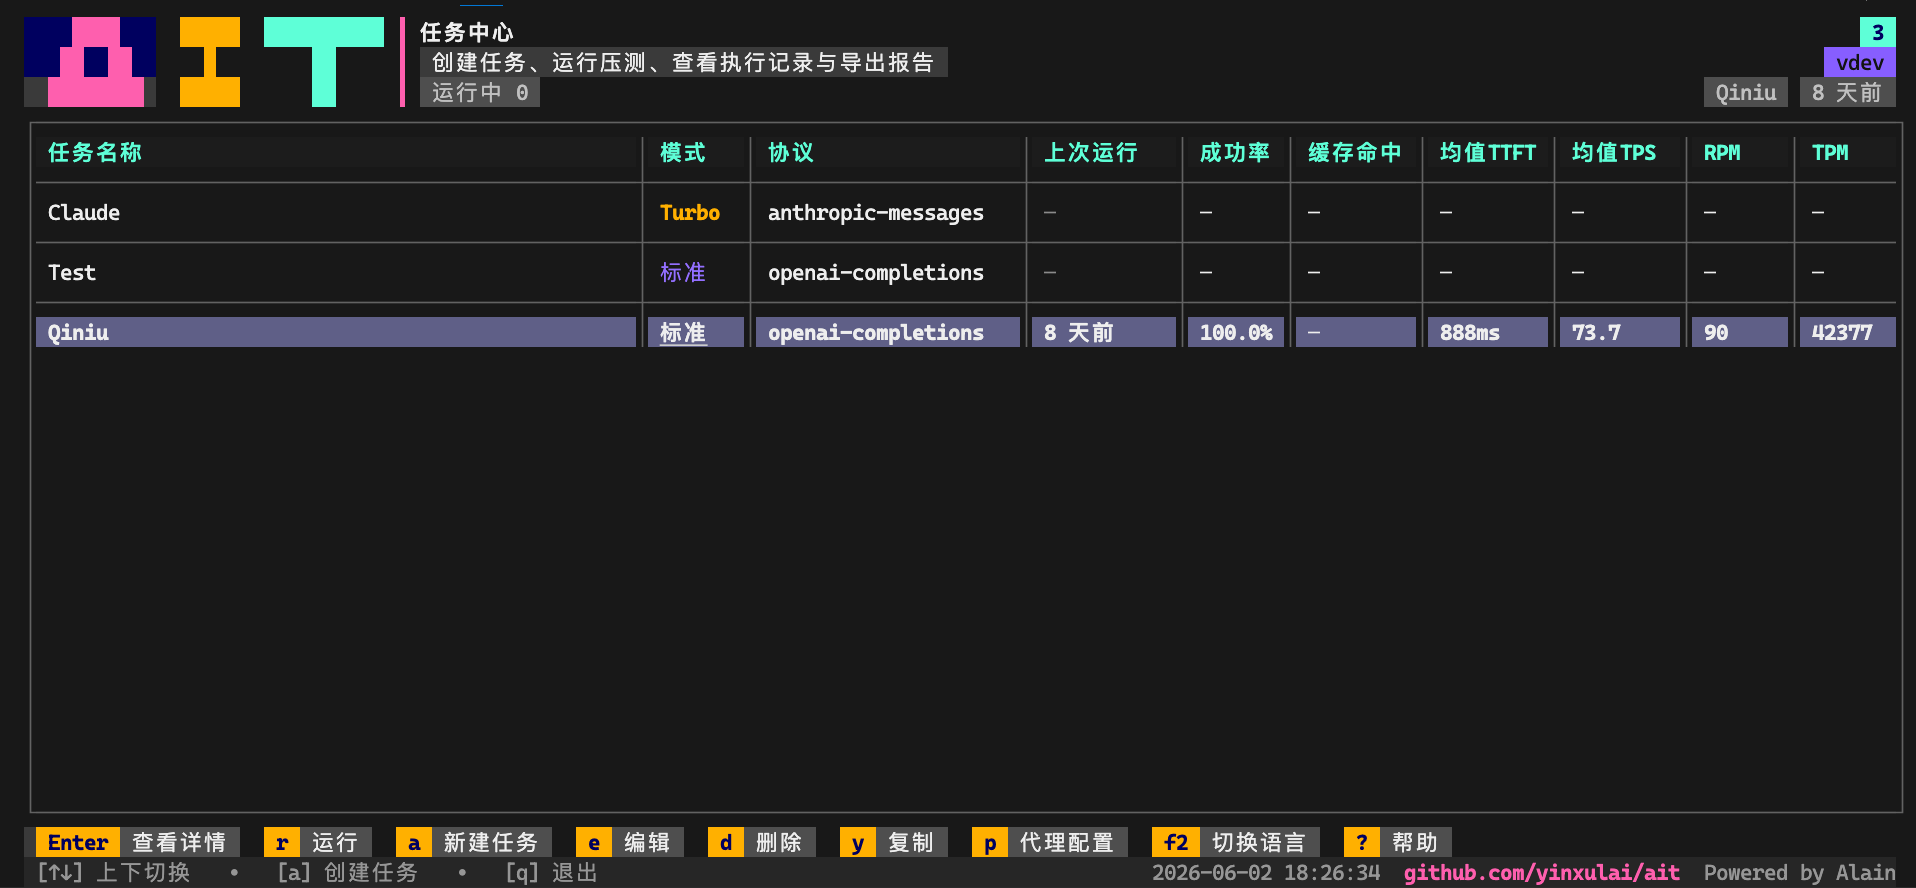
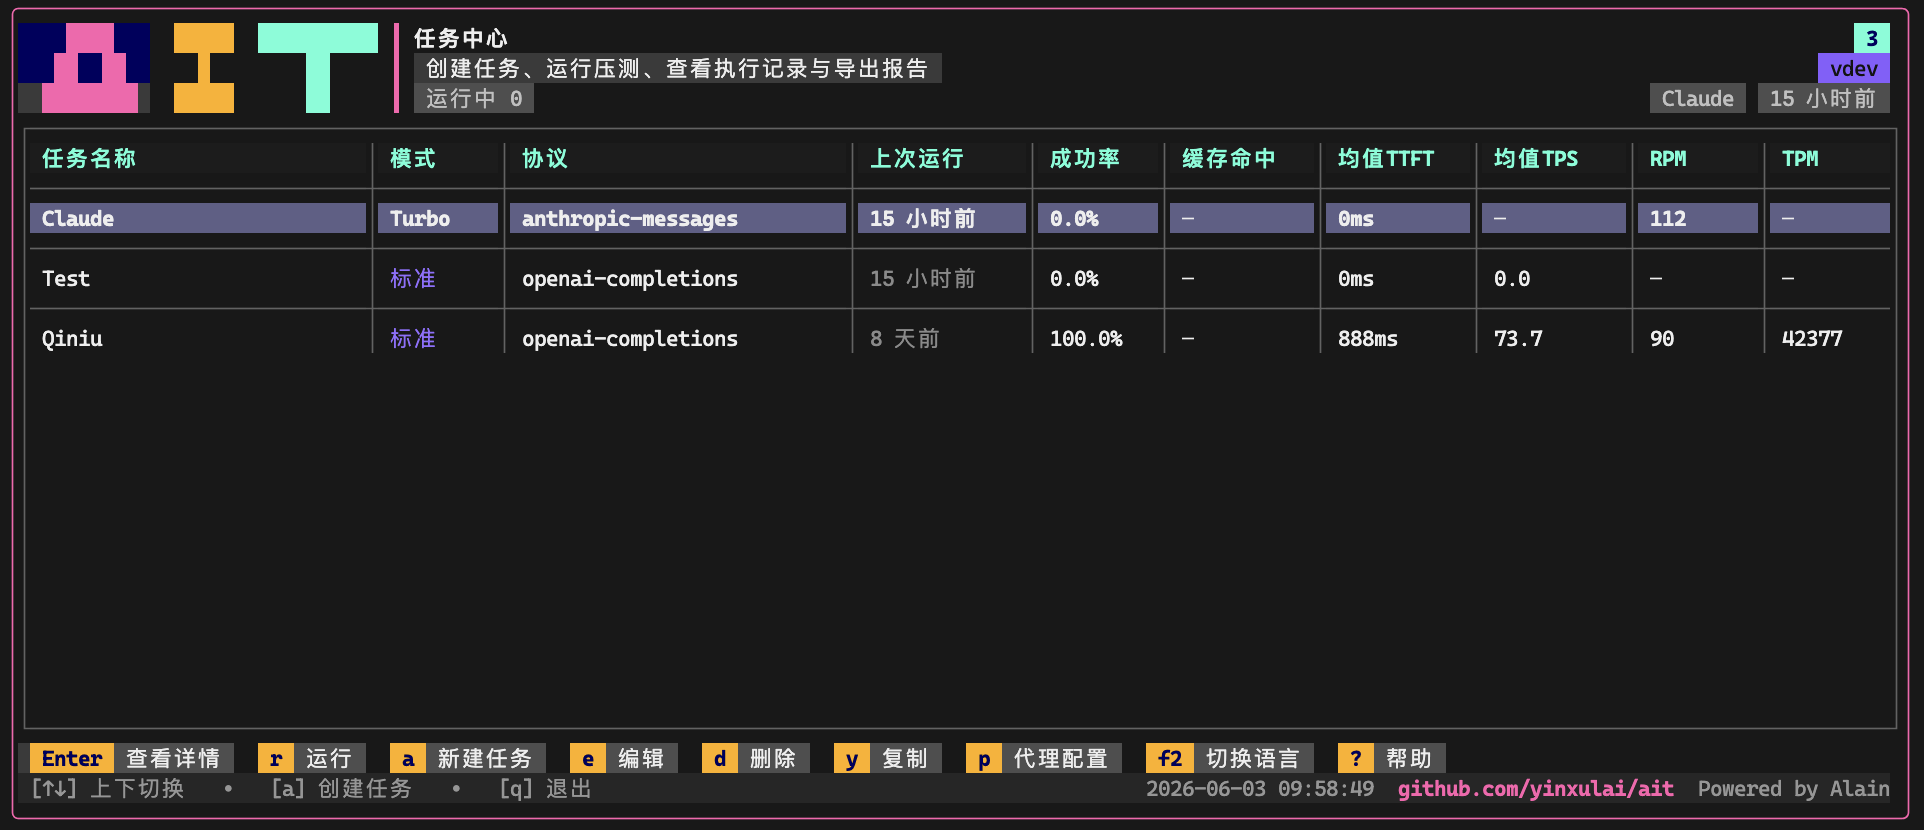
feat: 更新 README 文档，优化安装说明；增强布局样式，添加应用边框样式

diff --git a/internal/tui/pages/styles.go b/internal/tui/pages/styles.go
@@ -24,30 +24,31 @@ var (
 
 // Styles 汇聚所有 TUI 样式，由 NewStyles() 初始化。
 type Styles struct {
-	Panel       lipgloss.Style
-	Header      lipgloss.Style
-	HeaderInfo  lipgloss.Style
+	Panel            lipgloss.Style
+	Header           lipgloss.Style
+	HeaderInfo       lipgloss.Style
 	HotkeysSecondary lipgloss.Style
 	HotkeysPrimary   lipgloss.Style
 	PanelHead        lipgloss.Style
-	SectionHead lipgloss.Style
-	TableHead   lipgloss.Style
-	TableRow    lipgloss.Style
-	TableRowSel lipgloss.Style
-	Label       lipgloss.Style
-	Value       lipgloss.Style
-	Muted       lipgloss.Style
-	Ok          lipgloss.Style
-	ErrStyle    lipgloss.Style
-	Key         lipgloss.Style
-	MetricVal   lipgloss.Style
-	FieldActive lipgloss.Style
-	FieldIdle   lipgloss.Style
-	Cursor      lipgloss.Style
-	TagTurbo    lipgloss.Style
-	TagStd      lipgloss.Style
-	BtnPrimary  lipgloss.Style
-	Divider     lipgloss.Style
+	SectionHead      lipgloss.Style
+	TableHead        lipgloss.Style
+	TableRow         lipgloss.Style
+	TableRowSel      lipgloss.Style
+	Label            lipgloss.Style
+	Value            lipgloss.Style
+	Muted            lipgloss.Style
+	Ok               lipgloss.Style
+	ErrStyle         lipgloss.Style
+	Key              lipgloss.Style
+	MetricVal        lipgloss.Style
+	FieldActive      lipgloss.Style
+	FieldIdle        lipgloss.Style
+	Cursor           lipgloss.Style
+	TagTurbo         lipgloss.Style
+	TagStd           lipgloss.Style
+	BtnPrimary       lipgloss.Style
+	Divider          lipgloss.Style
+	AppBorder        lipgloss.Style
 }
 
 // NewStyles 创建并返回默认样式集合。
@@ -137,5 +138,9 @@ func NewStyles() Styles {
 		Panel: lipgloss.NewStyle().
 			Border(lipgloss.NormalBorder()).
 			BorderForeground(colorDivider),
+		AppBorder: lipgloss.NewStyle().
+			Border(lipgloss.RoundedBorder()).
+			BorderForeground(colorPink).
+			BorderTop(true).BorderBottom(true).BorderLeft(true).BorderRight(true),
 	}
 }

diff --git a/internal/tui/pages/layout.go b/internal/tui/pages/layout.go
@@ -19,6 +19,11 @@ const (
 
 	// panelBorderV 是单个面板的上下边框行数之和。
 	panelBorderV = 2
+
+	// appBorderV 是应用外层边框的上下行数之和。
+	appBorderV = 2
+	// appBorderH 是应用外层边框的左右列数之和。
+	appBorderH = 2
 )
 
 // ── PageLayout ────────────────────────────────────────────────────────────────
@@ -86,9 +91,14 @@ func (l PageLayout) Frame(totalW, totalH int) PageFrame {
 	if totalW < 1 {
 		totalW = 1
 	}
+	// 需要扣除应用外层边框占用的空间
+	contentW := totalW - appBorderH
+	if contentW < 1 {
+		contentW = 1
+	}
 	return PageFrame{
-		OuterWidth:  totalW,
-		InnerWidth:  totalW,
+		OuterWidth:  contentW,
+		InnerWidth:  contentW,
 		InnerHeight: l.ContentHeight(totalH),
 	}
 }
@@ -145,10 +155,10 @@ func (f PanelFrame) Split(leftPercent, minLeftOuter int) (PanelFrame, PanelFrame
 	return NewPanelFrame(leftOuter), NewPanelFrame(rightOuter)
 }
 
-// ContentHeight 返回页面主内容区的可用行数（总高度 - chrome 行数）。
+// ContentHeight 返回页面主内容区的可用行数（总高度 - chrome 行数 - 应用边框行数）。
 // 外层不再有边框，故不扣除 panelBorderV。
 func (l PageLayout) ContentHeight(totalH int) int {
-	h := totalH - l.ChromeHeight()
+	h := totalH - l.ChromeHeight() - appBorderV
 	if h < 2 {
 		h = 2
 	}
@@ -199,12 +209,14 @@ func joinVerticalBlocks(blocks ...string) string {
 	return strings.Join(visible, "\n")
 }
 
-// Assemble 拼装完整页面输出：header + content + hotkeys。
+// Assemble 拼装完整页面输出：header + content + hotkeys，最外层包裹应用边框。
 func (l PageLayout) Assemble(content string, st Styles, width int) string {
-	header := renderHeader(st, width, l.HeaderTitle, l.HeaderSubtitle, l.HeaderMeta, l.HeaderInfoLeft, l.HeaderInfoRight)
-	hotkeys := renderHotkeys(st, width, l.Hotkeys)
+	header := renderHeader(st, width-appBorderH, l.HeaderTitle, l.HeaderSubtitle, l.HeaderMeta, l.HeaderInfoLeft, l.HeaderInfoRight)
+	hotkeys := renderHotkeys(st, width-appBorderH, l.Hotkeys)
 
-	return strings.Join([]string{header, content, hotkeys}, "\n")
+	inner := strings.Join([]string{header, content, hotkeys}, "\n")
+	// 包裹应用外层边框
+	return st.AppBorder.Width(width).Render(inner)
 }
 
 // ── 最小尺寸保护 ──────────────────────────────────────────────────────────────

diff --git a/README.md b/README.md
@@ -28,59 +28,29 @@
 
 ### 方式一：下载预编译二进制文件（推荐）
 
-从 [Releases 页面](https://github.com/yinxulai/ait/releases) 下载适合您平台的预编译二进制文件：
+从 [Releases 页面](https://github.com/yinxulai/ait/releases) 下载适合您平台的预编译二进制文件。
 
-#### Linux/macOS 一键安装脚本（自动识别架构）
+#### Linux/macOS 一键安装脚本
 
 ```bash
 curl -fsSL https://raw.githubusercontent.com/yinxulai/ait/main/scripts/install-ait.sh | bash
 ```
 
-> 脚本会自动识别操作系统（Linux/macOS）和架构（`x86_64`, `aarch64`, `armv7l`, `i386`），下载最新版本并安装到 `/usr/local/bin`。如需自定义安装目录，可先下载脚本再执行：`curl -fsSL https://raw.githubusercontent.com/yinxulai/ait/main/scripts/install-ait.sh -o install-ait.sh && INSTALL_DIR=$HOME/.local/bin bash install-ait.sh`。
+> 脚本会自动识别操作系统（Linux/macOS）和架构（`x86_64`, `aarch64`, `armv7l`, `i386`），下载最新版本并安装到 `/usr/local/bin`。如需自定义安装目录，可使用 `INSTALL_DIR` 环境变量：
+> ```bash
+> curl -fsSL https://raw.githubusercontent.com/yinxulai/ait/main/scripts/install-ait.sh -o install-ait.sh
+> INSTALL_DIR=$HOME/.local/bin bash install-ait.sh
+> ```
 
-```bash
-# Linux (x64)
-wget https://github.com/yinxulai/ait/releases/latest/download/ait-linux-amd64
-chmod +x ait-linux-amd64
-sudo mv ait-linux-amd64 /usr/local/bin/ait
+#### Windows 安装
 
-# Linux (ARM64)
-wget https://github.com/yinxulai/ait/releases/latest/download/ait-linux-arm64
-chmod +x ait-linux-arm64
-sudo mv ait-linux-arm64 /usr/local/bin/ait
-
-# Linux (ARM)
-wget https://github.com/yinxulai/ait/releases/latest/download/ait-linux-arm
-chmod +x ait-linux-arm
-sudo mv ait-linux-arm /usr/local/bin/ait
-
-# Linux (386)
-wget https://github.com/yinxulai/ait/releases/latest/download/ait-linux-386
-chmod +x ait-linux-386
-sudo mv ait-linux-386 /usr/local/bin/ait
-
-# macOS (Intel)
-wget https://github.com/yinxulai/ait/releases/latest/download/ait-darwin-amd64
-chmod +x ait-darwin-amd64
-sudo mv ait-darwin-amd64 /usr/local/bin/ait
-
-# macOS (Apple Silicon)
-wget https://github.com/yinxulai/ait/releases/latest/download/ait-darwin-arm64
-chmod +x ait-darwin-arm64
-sudo mv ait-darwin-arm64 /usr/local/bin/ait
-
-# Windows (x64) - PowerShell
+```powershell
+# PowerShell - 下载最新版本（x64）
 Invoke-WebRequest -Uri "https://github.com/yinxulai/ait/releases/latest/download/ait-windows-amd64.exe" -OutFile "ait.exe"
-# 将 ait.exe 移动到您的 PATH 中
-
-# Windows (ARM64) - PowerShell
-Invoke-WebRequest -Uri "https://github.com/yinxulai/ait/releases/latest/download/ait-windows-arm64.exe" -OutFile "ait.exe"
-# 将 ait.exe 移动到您的 PATH 中
-
-# Windows (386) - PowerShell
-Invoke-WebRequest -Uri "https://github.com/yinxulai/ait/releases/latest/download/ait-windows-386.exe" -OutFile "ait.exe"
-# 将 ait.exe 移动到您的 PATH 中
+# 将 ait.exe 移动到您的 PATH 中（例如 C:\Windows\System32）
 ```
+
+> 其他架构（ARM64、386）请访问 [Releases 页面](https://github.com/yinxulai/ait/releases) 选择对应的版本下载。
 
 ### 方式二：从源码编译
 